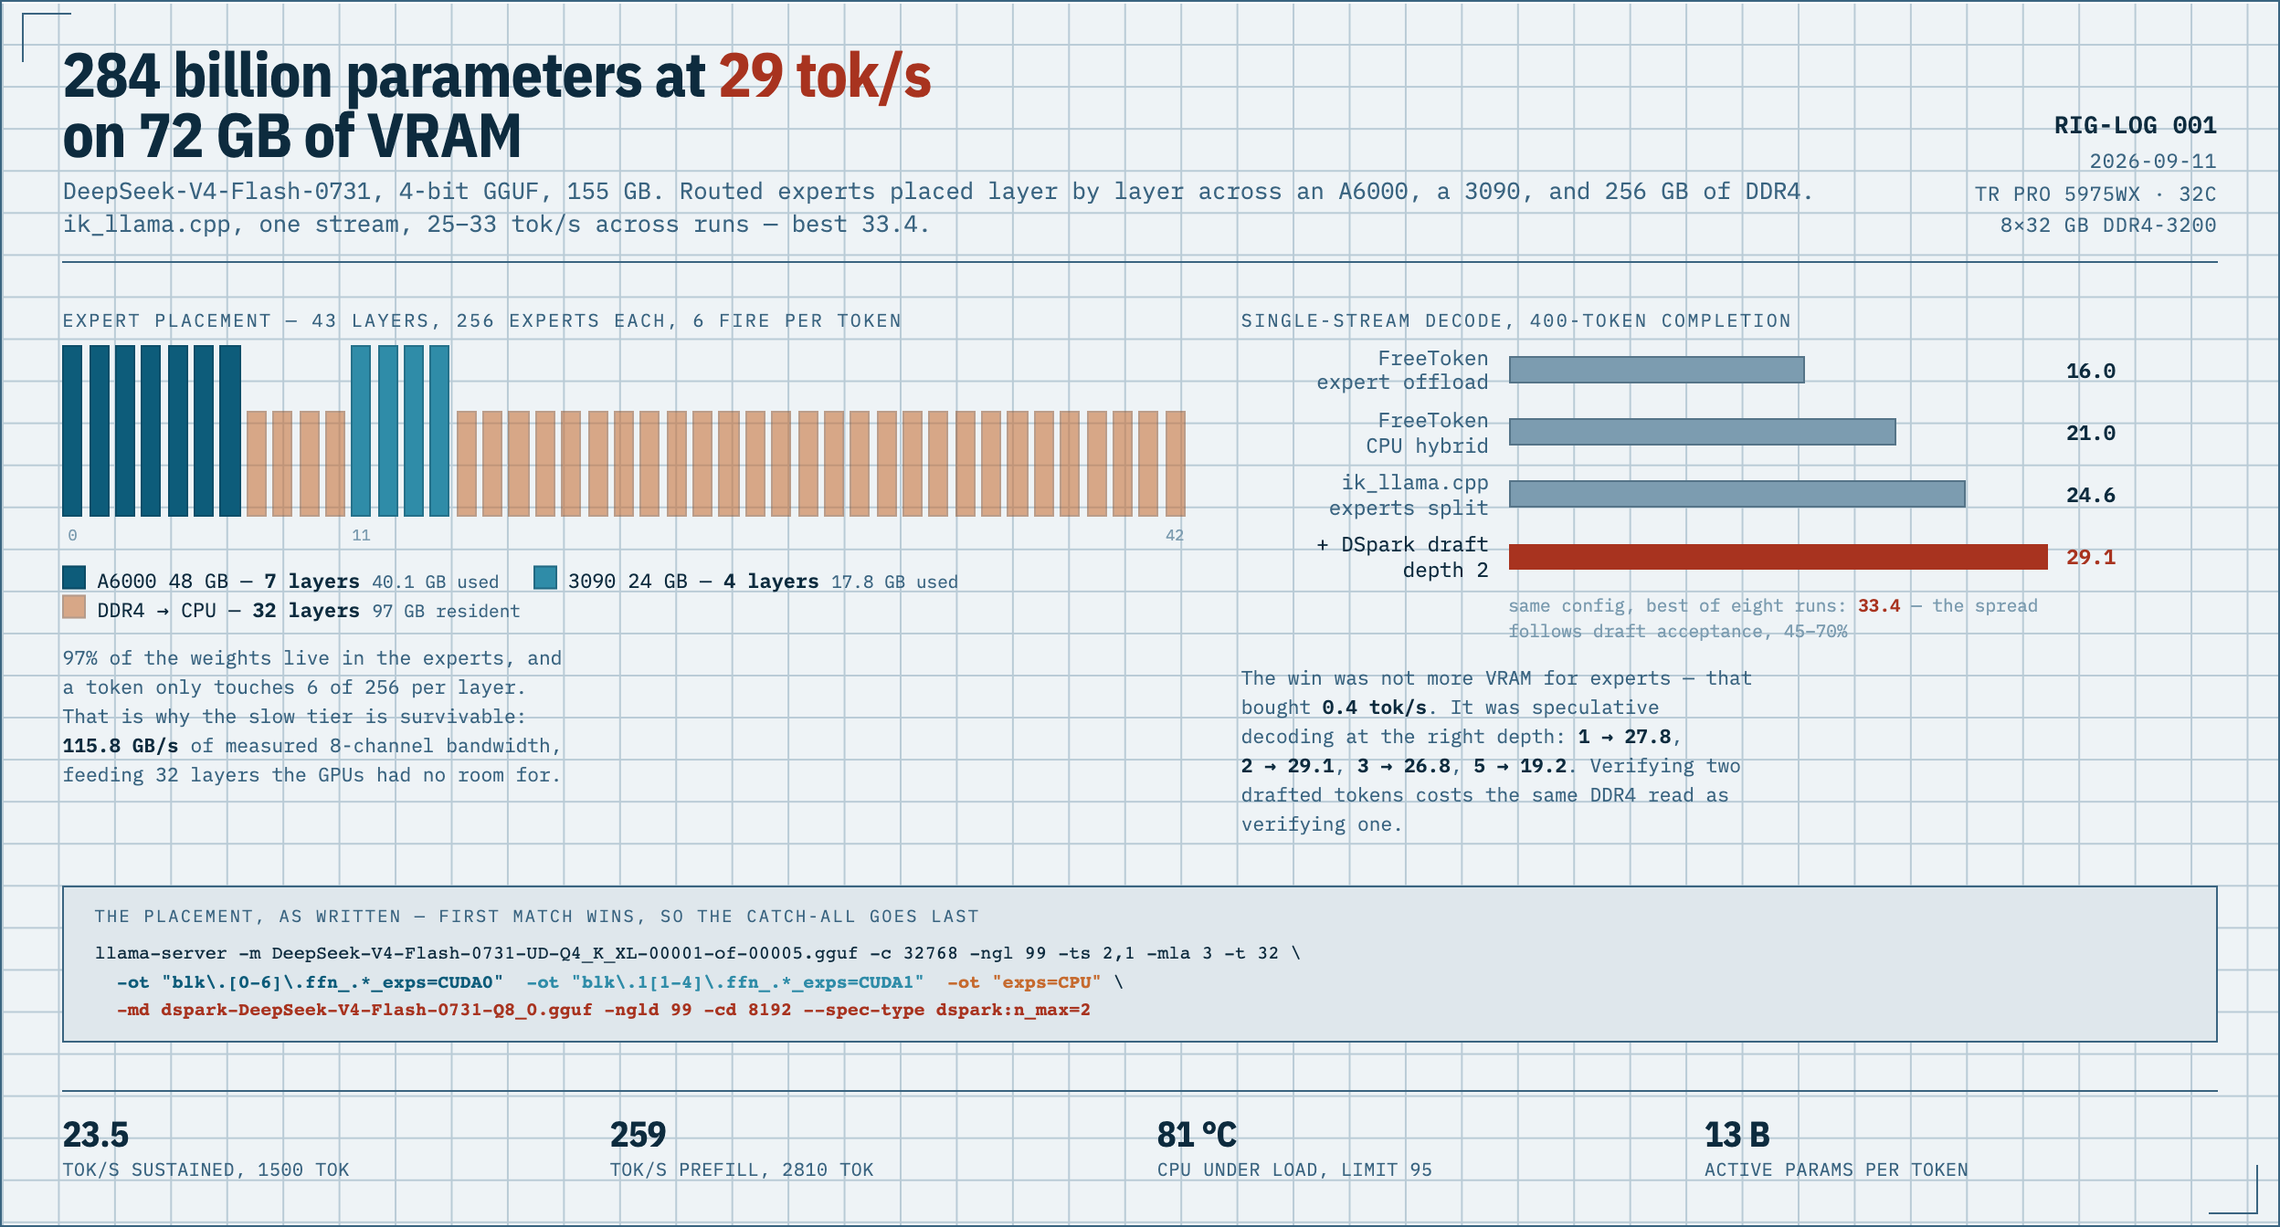
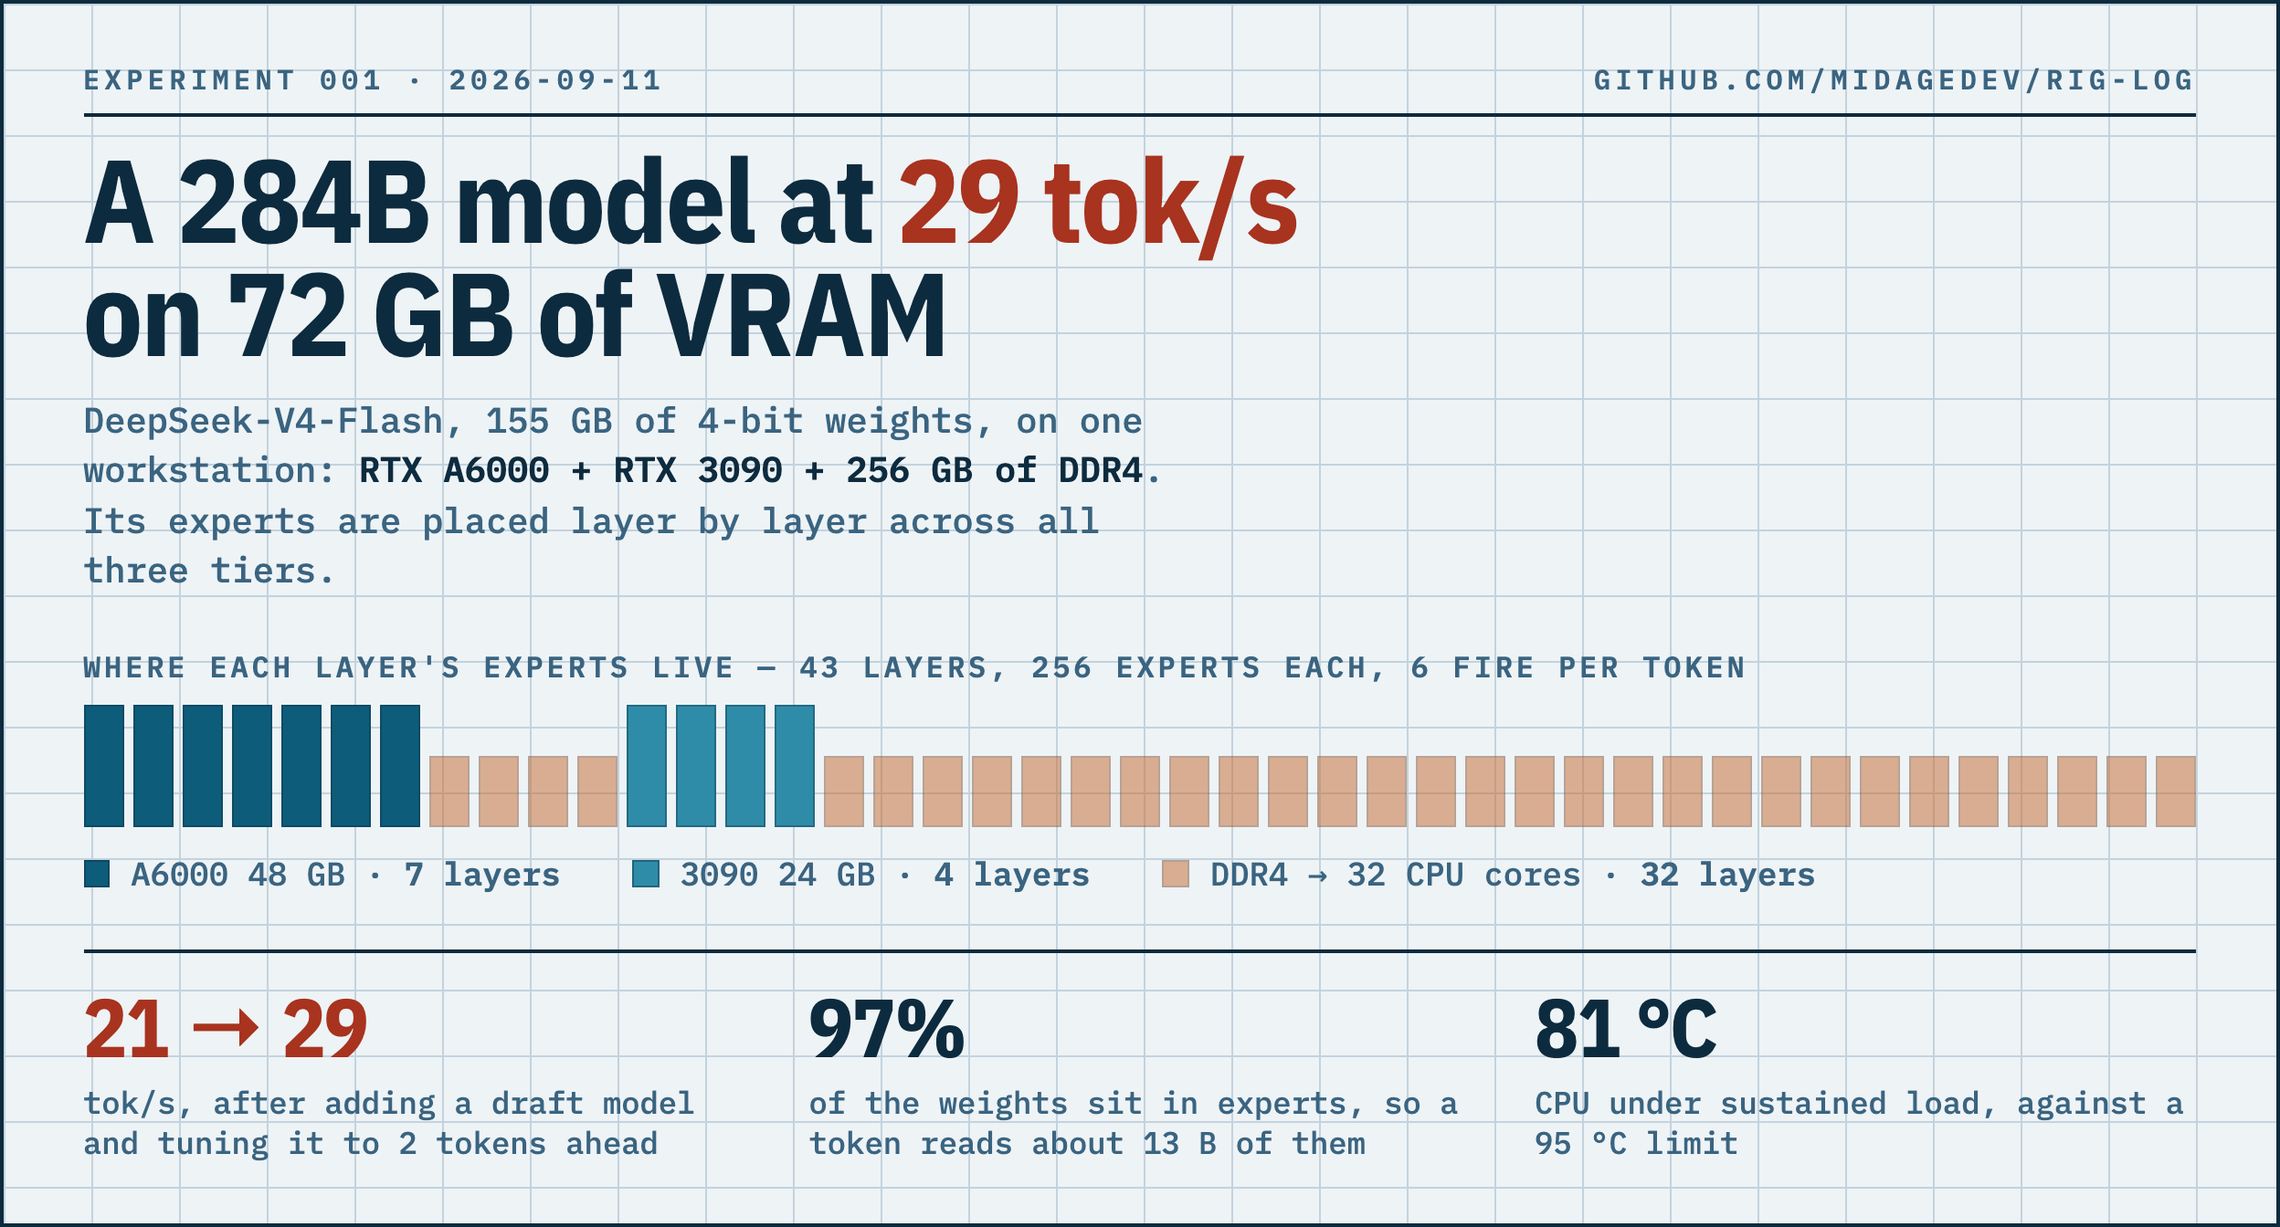
Redesign the sheet for a timeline: bigger type, three facts, less of everything else
The first version was a dense engineering sheet that needed a click to read.
This one holds one headline, the layer map, and three numbers, and is legible
at the ~600 px a social timeline renders.

diff --git a/assets/placement-sheet.html b/assets/placement-sheet.html
@@ -1,22 +1,21 @@
 <title>Expert Placement Sheet</title>
-<link rel="stylesheet" href="https://fonts.googleapis.com/css2?family=IBM+Plex+Mono:wght@400;500;600&family=IBM+Plex+Sans+Condensed:wght@600;700&display=swap">
+<link rel="stylesheet" href="https://fonts.googleapis.com/css2?family=IBM+Plex+Mono:wght@500;600&family=IBM+Plex+Sans+Condensed:wght@600;700&display=swap">
 <style>
   :root{
-    --ink:#0d2b3e;          /* blueprint ink */
-    --ink-2:#3a6480;        /* secondary ink */
-    --ink-3:#7c9cb0;        /* faint ink */
-    --paper:#dfe7ec;        /* blueprint paper */
-    --paper-2:#eef3f6;      /* lighter field */
-    --grid:#b9cbd6;
-    --a6000:#0d5c7a;        /* device colours: cool, ordered by speed */
+    --ink:#0d2b3e;
+    --ink-2:#3a6480;
+    --ink-3:#8aa8ba;
+    --paper:#dfe7ec;
+    --paper-2:#eef3f6;
+    --grid:#c3d3dd;
+    --a6000:#0d5c7a;
     --rtx3090:#2f8ca8;
-    --cpu:#c66a2e;          /* the slow tier: the one warm colour on the sheet */
-    --signal:#a8331f;       /* the headline figure only */
+    --cpu:#c66a2e;
+    --signal:#a8331f;
   }
   *{box-sizing:border-box}
   body{
-    background:var(--paper);
-    color:var(--ink);
+    background:var(--paper);color:var(--ink);
     font-family:"IBM Plex Mono",ui-monospace,SFMono-Regular,Menlo,monospace;
     margin:0;padding-block:24px;padding-left:16px;padding-right:16px;
     display:flex;justify-content:center;
@@ -25,202 +24,105 @@
     width:100%;max-width:1280px;aspect-ratio:16/9;
     container-type:size;
     background:
-      linear-gradient(var(--grid) 1px, transparent 1px) 0 0/100% 3.2cqh,
-      linear-gradient(90deg, var(--grid) 1px, transparent 1px) 0 0/2.4cqw 100%,
+      linear-gradient(var(--grid) 1px, transparent 1px) 0 0/100% 5cqh,
+      linear-gradient(90deg, var(--grid) 1px, transparent 1px) 0 0/3.75cqw 100%,
       var(--paper-2);
-    border:1px solid var(--ink-2);
-    box-shadow:0 1px 0 #fff inset;
-    padding:3.2cqh 2.6cqw;
-    display:grid;
-    grid-template-rows:auto auto auto auto;align-content:space-between;
-    gap:2.6cqh;
-    position:relative;
+    border:2px solid var(--ink);
+    padding:4.4cqh 3.4cqw;
+    display:grid;grid-template-rows:auto auto auto;align-content:space-between;
+    gap:4cqh;
   }
-  /* corner registration marks — drawing-sheet convention */
-  .sheet::before,.sheet::after{
-    content:"";position:absolute;width:2.2cqw;height:2.2cqw;border:1px solid var(--ink-2);
-  }
-  .sheet::before{top:1cqh;left:0.9cqw;border-right:0;border-bottom:0}
-  .sheet::after{bottom:1cqh;right:0.9cqw;border-left:0;border-top:0}
 
-  header{display:flex;align-items:flex-end;justify-content:space-between;gap:2cqw;
-    border-bottom:1px solid var(--ink-2);padding-bottom:1.6cqh}
+  .eyebrow{display:flex;justify-content:space-between;align-items:baseline;
+    font-size:2.5cqh;font-weight:600;letter-spacing:0.18em;text-transform:uppercase;
+    color:var(--ink-2);border-bottom:2px solid var(--ink);padding-bottom:1.5cqh}
   h1{
-    font-family:"IBM Plex Sans Condensed",Arial Narrow,sans-serif;
-    font-weight:700;margin:0;line-height:0.98;font-size:5.4cqh;letter-spacing:-0.01em;
+    font-family:"IBM Plex Sans Condensed",Arial Narrow,sans-serif;font-weight:700;
+    margin:2.6cqh 0 0;line-height:0.96;font-size:10.6cqh;letter-spacing:-0.015em;
     text-wrap:balance;
   }
   h1 em{font-style:normal;color:var(--signal)}
-  .sub{margin:0.9cqh 0 0;font-size:2.05cqh;color:var(--ink-2);line-height:1.45}
-  .stamp{text-align:right;flex:none;font-size:1.75cqh;color:var(--ink-2);line-height:1.6;
-    letter-spacing:0.04em;text-transform:uppercase}
-  .stamp b{display:block;color:var(--ink);font-size:2.1cqh;letter-spacing:0.02em}
+  .sub{margin:2.2cqh 0 0;font-size:3.2cqh;line-height:1.42;color:var(--ink-2);max-width:52ch}
+  .sub b{color:var(--ink);font-weight:600}
 
-  main{display:grid;grid-template-columns:1.15fr 1fr;gap:2.6cqw;min-height:0}
-  .lbl{font-size:1.6cqh;letter-spacing:0.12em;text-transform:uppercase;color:var(--ink-2);
-    margin:0 0 1.1cqh}
+  .lbl{font-size:2.65cqh;font-weight:600;letter-spacing:0.12em;text-transform:uppercase;
+    color:var(--ink-2);margin:0 0 1.8cqh}
 
-  /* ---- layer map ---- */
-  .map{display:grid;grid-template-columns:repeat(43,1fr);gap:0.28cqw;align-items:end;height:15cqh}
-  .cell{height:100%;border:1px solid rgba(13,43,62,.28)}
+  .map{display:grid;grid-template-columns:repeat(43,1fr);gap:0.42cqw;align-items:end;height:11cqh}
+  .cell{height:100%;border:1px solid rgba(13,43,62,.35)}
   .cell.g0{background:var(--a6000)}
   .cell.g1{background:var(--rtx3090)}
-  .cell.cpu{background:var(--cpu);opacity:.55;height:62%}
-  .ruler{display:grid;grid-template-columns:repeat(43,1fr);gap:0.28cqw;margin-top:0.7cqh;
-    font-size:1.35cqh;color:var(--ink-3)}
-  .ruler span{text-align:center}
-  .legend{display:flex;flex-wrap:wrap;gap:0 1.6cqw;margin-top:1.8cqh;font-size:1.75cqh}
-  .legend div{display:flex;align-items:baseline;gap:0.5cqw}
-  .sw{width:1.1cqw;height:1.1cqw;flex:none;transform:translateY(0.12cqh);border:1px solid rgba(13,43,62,.35)}
+  .cell.cpu{background:var(--cpu);opacity:.5;height:58%}
+  .legend{display:flex;flex-wrap:wrap;gap:1.4cqh 3.4cqw;margin-top:2.4cqh;font-size:2.95cqh}
+  .legend div{display:flex;align-items:center;gap:1cqw}
+  .sw{width:2.4cqh;height:2.4cqh;flex:none;border:1px solid rgba(13,43,62,.4)}
   .legend b{font-weight:600;font-variant-numeric:tabular-nums}
-  .legend small{color:var(--ink-2);font-size:1.55cqh}
+  .legend span{color:var(--ink-2)}
 
-  /* ---- ladder chart ---- */
-  .rows{display:grid;gap:1.15cqh}
-  .row{display:grid;grid-template-columns:11.5cqw 1fr 7cqw;align-items:center;gap:0.9cqw;
-    font-size:1.8cqh}
-  .row span:first-child{color:var(--ink-2);text-align:right;line-height:1.2}
-  .bar{height:2.3cqh;background:var(--ink-3);border:1px solid rgba(13,43,62,.35)}
-  .row.best .bar{background:var(--signal);border-color:var(--signal)}
-  .row.best span:first-child{color:var(--ink)}
-  .val{font-variant-numeric:tabular-nums;font-weight:600}
-  .row.best .val{color:var(--signal)}
-
-  .note{margin:1.9cqh 0 0;font-size:1.7cqh;color:var(--ink-2);line-height:1.5;max-width:44ch}
-  .note b{color:var(--ink);font-weight:600}
-
-  .cmd{border:1px solid var(--ink-2);background:var(--paper);padding:1.5cqh 1.4cqw}
-  .cmd p{margin:0 0 0.9cqh;font-size:1.5cqh;letter-spacing:0.12em;text-transform:uppercase;color:var(--ink-2)}
-  .cmd pre{margin:0;font-size:1.62cqh;line-height:1.55;color:var(--ink);overflow-x:auto}
-  .cmd b{color:var(--a6000);font-weight:600}
-  .cmd i{color:var(--rtx3090);font-style:normal;font-weight:600}
-  .cmd u{color:var(--cpu);text-decoration:none;font-weight:600}
-  .cmd s{color:var(--signal);text-decoration:none;font-weight:600}
-
-  footer{display:grid;grid-template-columns:repeat(4,1fr);gap:1.6cqw;
-    border-top:1px solid var(--ink-2);padding-top:1.7cqh}
-  .fact{line-height:1.35}
+  footer{display:grid;grid-template-columns:repeat(3,1fr);gap:3cqw;
+    border-top:2px solid var(--ink);padding-top:3cqh}
   .fact b{display:block;font-family:"IBM Plex Sans Condensed",sans-serif;font-weight:700;
-    font-size:3.1cqh;font-variant-numeric:tabular-nums;letter-spacing:-0.01em}
-  .fact span{font-size:1.6cqh;color:var(--ink-2);letter-spacing:0.03em;text-transform:uppercase}
+    font-size:7.4cqh;line-height:1;font-variant-numeric:tabular-nums;letter-spacing:-0.015em}
+  .fact.hot b{color:var(--signal)}
+  .fact span{display:block;margin-top:1.3cqh;font-size:2.8cqh;line-height:1.35;color:var(--ink-2)}
 
-  @media (max-width:720px){
-    .cmd{padding:12px 12px}.cmd p{font-size:10px}.cmd pre{font-size:10.5px;line-height:1.5}
-    .sheet{aspect-ratio:auto;container-type:normal;padding:20px 16px;gap:18px}
-    h1{font-size:26px}.sub{font-size:13px}.stamp{font-size:11px}.stamp b{font-size:13px}
-    main{grid-template-columns:1fr;gap:22px}
-    .lbl{font-size:11px;margin-bottom:8px}
-    .map{height:64px;gap:1px}.ruler{display:none}
-    .legend{font-size:12px;gap:0 14px;margin-top:12px}.legend small{font-size:11px}
-    .sw{width:10px;height:10px;transform:none}
-    .row{grid-template-columns:96px 1fr 54px;font-size:12px;gap:8px}
-    .bar{height:14px}
-    .note{font-size:12px;margin-top:14px}
-    footer{grid-template-columns:repeat(2,1fr);gap:14px}
-    .fact b{font-size:20px}.fact span{font-size:10px}
-    .sheet::before,.sheet::after{display:none}
+  @media (max-width:760px){
+    .sheet{aspect-ratio:auto;container-type:normal;padding:22px 18px;gap:22px;border-width:1px}
+    .eyebrow{font-size:11px;padding-bottom:10px;border-bottom-width:1px}
+    h1{font-size:30px;margin-top:14px}
+    .sub{font-size:14px;margin-top:12px}
+    .lbl{font-size:11px;margin-bottom:10px}
+    .map{height:52px;gap:1.5px}
+    .legend{font-size:13px;gap:8px 18px;margin-top:14px}
+    .sw{width:12px;height:12px}
+    footer{grid-template-columns:1fr;gap:16px;padding-top:16px;border-top-width:1px}
+    .fact b{font-size:30px}.fact span{font-size:12px;margin-top:4px}
   }
 </style>
 
 <div class="sheet">
-  <header>
-    <div>
-      <h1>284 billion parameters at <em>29 tok/s</em><br>on 72&nbsp;GB of VRAM</h1>
-      <p class="sub">DeepSeek-V4-Flash-0731, 4-bit GGUF, 155&nbsp;GB. Routed experts placed layer by layer
-        across an A6000, a 3090, and 256&nbsp;GB of DDR4. ik_llama.cpp, one stream,
-        25–33&nbsp;tok/s across runs — best 33.4.</p>
+  <section>
+    <div class="eyebrow"><span>Experiment 001 · 2026-09-11</span><span>github.com/midagedev/rig-log</span></div>
+    <h1>A 284B model at <em>29 tok/s</em><br>on 72 GB of VRAM</h1>
+    <p class="sub">DeepSeek-V4-Flash, 155 GB of 4-bit weights, on one workstation:
+      <b>RTX A6000 + RTX 3090 + 256 GB of DDR4</b>. Its experts are placed layer by layer
+      across all three tiers.</p>
+  </section>
+
+  <section>
+    <p class="lbl">Where each layer's experts live — 43 layers, 256 experts each, 6 fire per token</p>
+    <div class="map">
+      <div class="cell g0"></div><div class="cell g0"></div><div class="cell g0"></div>
+      <div class="cell g0"></div><div class="cell g0"></div><div class="cell g0"></div>
+      <div class="cell g0"></div>
+      <div class="cell cpu"></div><div class="cell cpu"></div><div class="cell cpu"></div>
+      <div class="cell cpu"></div>
+      <div class="cell g1"></div><div class="cell g1"></div><div class="cell g1"></div>
+      <div class="cell g1"></div>
+      <div class="cell cpu"></div><div class="cell cpu"></div><div class="cell cpu"></div>
+      <div class="cell cpu"></div><div class="cell cpu"></div><div class="cell cpu"></div>
+      <div class="cell cpu"></div><div class="cell cpu"></div><div class="cell cpu"></div>
+      <div class="cell cpu"></div><div class="cell cpu"></div><div class="cell cpu"></div>
+      <div class="cell cpu"></div><div class="cell cpu"></div><div class="cell cpu"></div>
+      <div class="cell cpu"></div><div class="cell cpu"></div><div class="cell cpu"></div>
+      <div class="cell cpu"></div><div class="cell cpu"></div><div class="cell cpu"></div>
+      <div class="cell cpu"></div><div class="cell cpu"></div><div class="cell cpu"></div>
+      <div class="cell cpu"></div><div class="cell cpu"></div><div class="cell cpu"></div>
+      <div class="cell cpu"></div>
     </div>
-    <div class="stamp">
-      <b>rig-log 001</b>
-      2026-09-11<br>
-      TR PRO 5975WX · 32C<br>
-      8×32 GB DDR4-3200
+    <div class="legend">
+      <div><i class="sw" style="background:var(--a6000)"></i><span>A6000 48 GB · <b>7 layers</b></span></div>
+      <div><i class="sw" style="background:var(--rtx3090)"></i><span>3090 24 GB · <b>4 layers</b></span></div>
+      <div><i class="sw" style="background:var(--cpu);opacity:.5"></i><span>DDR4 → 32 CPU cores · <b>32 layers</b></span></div>
     </div>
-  </header>
-
-  <main>
-    <section>
-      <p class="lbl">Expert placement — 43 layers, 256 experts each, 6 fire per token</p>
-      <div class="map">
-        <div class="cell g0"></div><div class="cell g0"></div><div class="cell g0"></div>
-        <div class="cell g0"></div><div class="cell g0"></div><div class="cell g0"></div>
-        <div class="cell g0"></div>
-        <div class="cell cpu"></div><div class="cell cpu"></div><div class="cell cpu"></div>
-        <div class="cell cpu"></div>
-        <div class="cell g1"></div><div class="cell g1"></div><div class="cell g1"></div>
-        <div class="cell g1"></div>
-        <div class="cell cpu"></div><div class="cell cpu"></div><div class="cell cpu"></div>
-        <div class="cell cpu"></div><div class="cell cpu"></div><div class="cell cpu"></div>
-        <div class="cell cpu"></div><div class="cell cpu"></div><div class="cell cpu"></div>
-        <div class="cell cpu"></div><div class="cell cpu"></div><div class="cell cpu"></div>
-        <div class="cell cpu"></div><div class="cell cpu"></div><div class="cell cpu"></div>
-        <div class="cell cpu"></div><div class="cell cpu"></div><div class="cell cpu"></div>
-        <div class="cell cpu"></div><div class="cell cpu"></div><div class="cell cpu"></div>
-        <div class="cell cpu"></div><div class="cell cpu"></div><div class="cell cpu"></div>
-        <div class="cell cpu"></div><div class="cell cpu"></div><div class="cell cpu"></div>
-        <div class="cell cpu"></div>
-      </div>
-      <div class="ruler">
-        <span>0</span><span></span><span></span><span></span><span></span><span></span><span></span>
-        <span></span><span></span><span></span><span></span>
-        <span>11</span><span></span><span></span><span></span>
-        <span></span><span></span><span></span><span></span><span></span><span></span><span></span>
-        <span></span><span></span><span></span><span></span><span></span><span></span><span></span>
-        <span></span><span></span><span></span><span></span><span></span><span></span><span></span>
-        <span></span><span></span><span></span><span></span><span></span><span></span><span>42</span>
-      </div>
-      <div class="legend">
-        <div><i class="sw" style="background:var(--a6000)"></i><span>A6000 48 GB — <b>7 layers</b> <small>40.1 GB used</small></span></div>
-        <div><i class="sw" style="background:var(--rtx3090)"></i><span>3090 24 GB — <b>4 layers</b> <small>17.8 GB used</small></span></div>
-        <div><i class="sw" style="background:var(--cpu);opacity:.55"></i><span>DDR4 → CPU — <b>32 layers</b> <small>97 GB resident</small></span></div>
-      </div>
-      <p class="note">97% of the weights live in the experts, and a token only touches 6 of 256
-        per layer. That is why the slow tier is survivable: <b>115.8 GB/s</b> of measured
-        8-channel bandwidth, feeding 32 layers the GPUs had no room for.</p>
-    </section>
-
-    <section>
-      <p class="lbl">Single-stream decode, 400-token completion</p>
-      <div class="rows">
-        <div class="row">
-          <span>FreeToken<br>expert offload</span>
-          <div class="bar" style="width:55%"></div><span class="val">16.0</span>
-        </div>
-        <div class="row">
-          <span>FreeToken<br>CPU hybrid</span>
-          <div class="bar" style="width:72%"></div><span class="val">21.0</span>
-        </div>
-        <div class="row">
-          <span>ik_llama.cpp<br>experts split</span>
-          <div class="bar" style="width:85%"></div><span class="val">24.6</span>
-        </div>
-        <div class="row best">
-          <span>+ DSpark draft<br>depth 2</span>
-          <div class="bar" style="width:100%"></div><span class="val">29.1</span>
-        </div>
-        <div class="row"><span></span><div style="font-size:1.55cqh;color:var(--ink-3);line-height:1.4">
-          same config, best of eight runs: <b style="color:var(--signal)">33.4</b> — the spread follows draft acceptance, 45–70%
-        </div><span></span></div>
-      </div>
-      <p class="note">The win was not more VRAM for experts — that bought
-        <b>0.4 tok/s</b>. It was speculative decoding at the right depth:
-        <b>1&nbsp;→&nbsp;27.8</b>, <b>2&nbsp;→&nbsp;29.1</b>, <b>3&nbsp;→&nbsp;26.8</b>,
-        <b>5&nbsp;→&nbsp;19.2</b>. Verifying two drafted tokens costs the same DDR4 read
-        as verifying one.</p>
-    </section>
-  </main>
-
-  <section class="cmd">
-    <p>The placement, as written — first match wins, so the catch-all goes last</p>
-<pre>llama-server -m DeepSeek-V4-Flash-0731-UD-Q4_K_XL-00001-of-00005.gguf -c 32768 -ngl 99 -ts 2,1 -mla 3 -t 32 \
-  <b>-ot "blk\.[0-6]\.ffn_.*_exps=CUDA0"</b>  <i>-ot "blk\.1[1-4]\.ffn_.*_exps=CUDA1"</i>  <u>-ot "exps=CPU"</u> \
-  <s>-md dspark-DeepSeek-V4-Flash-0731-Q8_0.gguf -ngld 99 -cd 8192 --spec-type dspark:n_max=2</s></pre>
   </section>
 
   <footer>
-    <div class="fact"><b>23.5</b><span>tok/s sustained, 1500 tok</span></div>
-    <div class="fact"><b>259</b><span>tok/s prefill, 2810 tok</span></div>
-    <div class="fact"><b>81 °C</b><span>CPU under load, limit 95</span></div>
-    <div class="fact"><b>13 B</b><span>active params per token</span></div>
+    <div class="fact hot"><b>21 → 29</b><span>tok/s, after adding a draft model
+      and tuning it to 2 tokens ahead</span></div>
+    <div class="fact"><b>97%</b><span>of the weights sit in experts, so a token
+      reads about 13 B of them</span></div>
+    <div class="fact"><b>81 °C</b><span>CPU under sustained load, against a
+      95 °C limit</span></div>
   </footer>
 </div>
